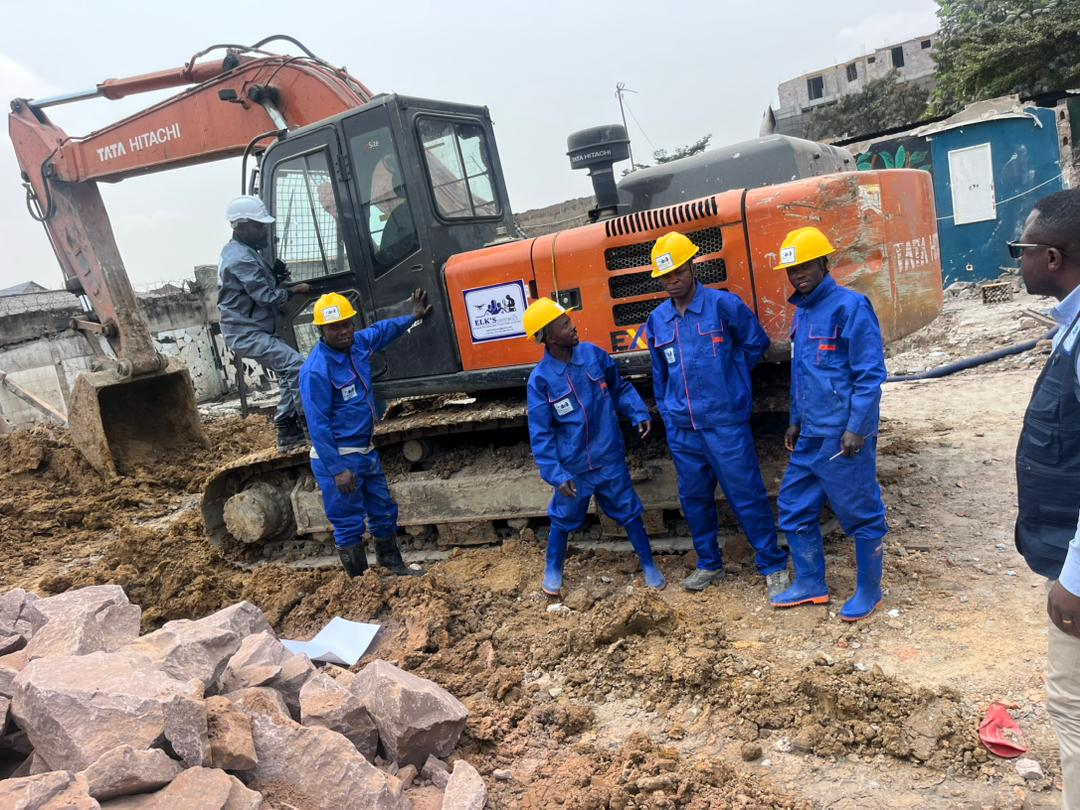
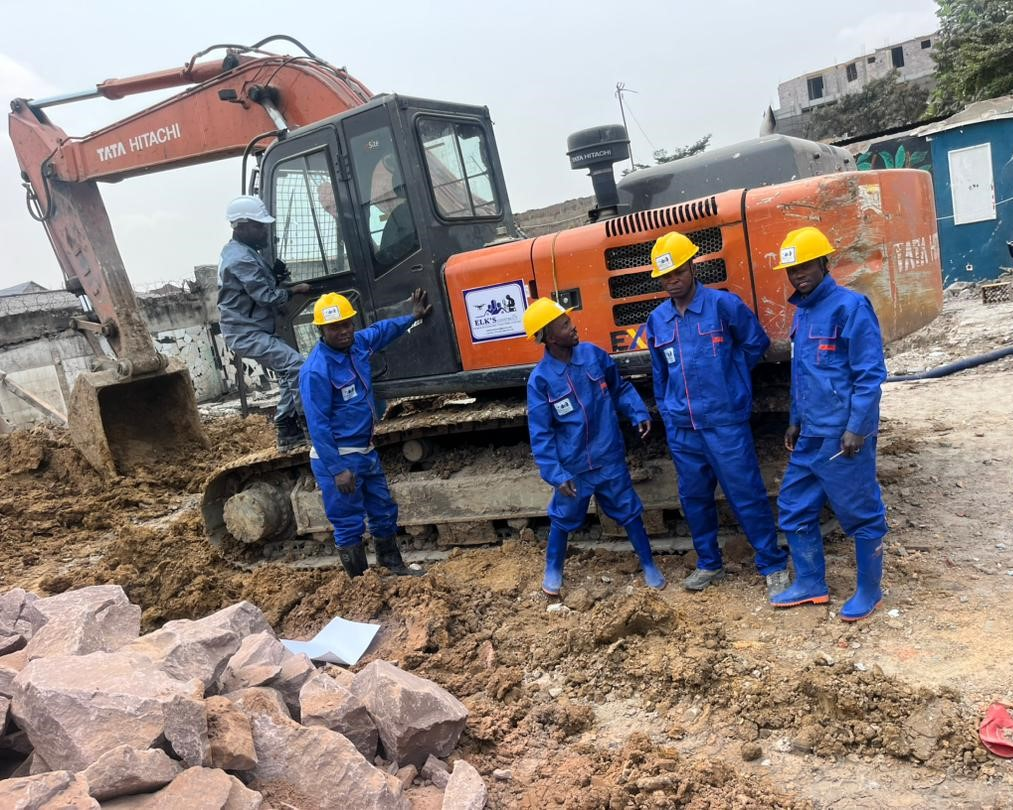
Fixing index

diff --git a/index.html b/index.html
@@ -31,6 +31,7 @@
         <link rel="stylesheet" href="style_publication.css">
         <link rel="stylesheet" href="dashboard.css">
         <link rel="stylesheet" href="style1.css">
+        <link rel="stylesheet" href="services.css">
         <link href="https://fonts.cdnfonts.com/css/reey" rel="stylesheet">
         <!-- Link Swiper's CSS -->
         <link rel="stylesheet" href="https://cdn.jsdelivr.net/npm/swiper@11/swiper-bundle.min.css" />
@@ -115,11 +116,11 @@
                <p>Avec une équipe pluridisciplinaire hautement qualifiée et passionnée, ELK’S CONSTRUCT SARL met la créativité, la rigueur et l’innovation au cœur de chaque projet, afin de bâtir un avenir solide et prospère.</p>
             </div>
             <div class="map">
-                <img src="assets/construction1.jpg" width="600" height="100%" style="border:0;" allowfullscreen="" loading="lazy" referrerpolicy="no-referrer-when-downgrade">
+                <img src="assets/elks.jpg" width="600" height="100%" style="border:0;" allowfullscreen="" loading="lazy" referrerpolicy="no-referrer-when-downgrade">
             </div>
         </section>
         <!-- Services -->
-        
+
 
         <section id="services">
 
@@ -155,27 +156,95 @@
                 l’aménagement. Il réduit les coûts et le temps par rapport aux méthodes 
                 traditionnelles, tout en garantissant une précision centimétrique. </p>
             </div>
+        </section>
+
+        <div class="services-container">
+
+    
+            <div class="service-card">
+               <div class="top-text">
+                    <h4><i class="fa-solid fa-car-side"></i> Le DJI M-400</h4>
+               </div>
+                <div class="service-pic">
+                    <img src="assets/dji 2.png" alt="">
+                </div>
+
+                <div class="service-description">
+                    <p class="short-text">
+                    Faire appel à ELK'S Construct SARL, c’est bénéficier de l’innovation DJI M-400 
+                    pour assurer qualité, sécurité et efficacité à chaque étape de votre chantier.
+                    </p>
+
+                    <div class="more-text">
+                        <p>
+                        Le DJI Matrice 400 est un drone multifonction capable de transformer les 
+                        pratiques professionnelles dans plusieurs secteurs. Il assure des relevés précis 
+                        en mines et topographie, optimise la gestion agricole, augmente la sécurité 
+                        grâce à la surveillance aérienne, facilite les inspections industrielles, et enrichit 
+                        les productions médiatiques par des images aériennes de qualité. Sa 
+                        performance et sa polyvalence en font un outil incontournable pour accroître 
+                        l’efficacité, la sécurité et l’innovation dans les activités professionnelles. <br>
+                        
+                        Grâce à sa stabilité avancée, son autonomie prolongée et sa capacité à 
+                        embarquer des capteurs multiples, il s'impose comme un outil incontournable 
+                        dans plusieurs secteurs industriels. <br>
+                        Le M400 facilite la surveillance des sites miniers en temps réel, permettant une 
+                        cartographie précise des zones d'extraction. Il permet de collecter des données 
+                        topographiques détaillées pour évaluer les volumes extraits, surveiller la 
+                        stabilité des terrains et identifier les risques potentiels (glissements, 
+                        effondrements). Sa capacité à voler dans des conditions difficiles réduit les 
+                        interventions humaines en zones dangereuses, augmentant ainsi la sécurité. 
+                        </p>
+                    </div>
+
+                    <button class="btn toggle-btn">Voir plus</button>
+                </div>
+            </div>
+
+            <div class="service-card">
+               <div class="top-text">
+                    <h4><i class="fa-solid fa-seedling"></i> Agriculture intelligente</h4>
+               </div>
+                <div class="service-pic">
+                    <img src="assets/agri.jpg" alt="">
+                </div>
+
+                <div class="service-description">
+                    <p class="short-text">
+                        En agriculture, le M400 analyse la santé des cultures grâce à ses capteurs multi-
+                        spectraux et thermiques. Il détecte le stress hydrique, les maladies, ou les 
+                        infestations, permettant des interventions ciblées
+                    </p>
+
+                    <div class="more-text">
+                        <p> Cette technologie optimise 
+                        l’utilisation d’eau, d’engrais et de pesticides, améliore les rendements agricoles 
+                        tout en préservant l’environnement ou en réduisant l’utilisation de produits 
+                        chimiques. <br><br>
+                        Le drone est un outil efficace pour la surveillance de vastes périmètres 
+                        industriels, bases logistiques, ou sites sensibles. En mode vol automatique, il 
+                        peut patrouiller efficacement, détecter des anomalies et transmettre images en 
+                        temps réel. Il renforce la vigilance, réduit les coûts de main-d’œuvre et intervient 
+                        rapidement en cas d’incident. </p>
+                    </div>
+
+                    <button class="btn toggle-btn">Voir plus</button>
+                </div>
+            </div>
+
+        </div>
+
+        <section id="services">
 
             <div class="service">
-                <img src="assets/drone-1142182_1280.jpg" alt="">
-                <p>En agriculture, le M400 analyse la santé des cultures grâce à ses capteurs multi-
-                spectraux et thermiques. Il détecte le stress hydrique, les maladies, ou les 
-                infestations, permettant des interventions ciblées. Cette technologie optimise 
-                l’utilisation d’eau, d’engrais et de pesticides, améliore les rendements agricoles 
-                tout en préservant l’environnement ou en réduisant l’utilisation de produits 
-                chimiques. <br><br>
-                Le drone est un outil efficace pour la surveillance de vastes périmètres 
-                industriels, bases logistiques, ou sites sensibles. En mode vol automatique, il 
-                peut patrouiller efficacement, détecter des anomalies et transmettre images en 
-                temps réel. Il renforce la vigilance, réduit les coûts de main-d’œuvre et intervient 
-                rapidement en cas d’incident. <br><br>
+                <img src="assets/dji.png" alt="">
+                <p>.
                 Le M400 inspecte infrastructures complexes : lignes électriques, pipelines, 
                 installations pétrolières, ponts. Avec ses capteurs haute résolution, l’accès à 
                 des zones difficiles ou dangereuses devient sécurisé et rapide. Les images 
                 permettent d’identifier les défaillances, la corrosion ou les fissures, facilitant la 
                 planification des réparations avant l’apparition de pannes majeures. <br>
 
-                <img src="assets/elkane.jpg" alt="">
                 Grâce à sa stabilité, ses capacités de charge allant jusqu’à 6kg, son autonomie 
                 de 55 minutes de vol et sa compatibilité avec des caméras professionnelles, le 
                 Matrice 400 révolutionne la prise de vue aérienne en cinéma et médias. Il 
@@ -185,26 +254,6 @@
             </div>
             <div class="service">
 
-
-                <p>« Faire appel à ELK'S Construct SARL, c’est bénéficier de l’innovation DJI M-400 
-                pour assurer qualité, sécurité et efficacité à chaque étape de votre chantier ».</p>
-                <p>Le DJI Matrice 400 est un drone multifonction capable de transformer les 
-                pratiques professionnelles dans plusieurs secteurs. Il assure des relevés précis 
-                en mines et topographie, optimise la gestion agricole, augmente la sécurité 
-                grâce à la surveillance aérienne, facilite les inspections industrielles, et enrichit 
-                les productions médiatiques par des images aériennes de qualité. Sa 
-                performance et sa polyvalence en font un outil incontournable pour accroître 
-                l’efficacité, la sécurité et l’innovation dans les activités professionnelles. <br>
-                
-                Grâce à sa stabilité avancée, son autonomie prolongée et sa capacité à 
-                embarquer des capteurs multiples, il s'impose comme un outil incontournable 
-                dans plusieurs secteurs industriels. <br>
-                Le M400 facilite la surveillance des sites miniers en temps réel, permettant une 
-                cartographie précise des zones d'extraction. Il permet de collecter des données 
-                topographiques détaillées pour évaluer les volumes extraits, surveiller la 
-                stabilité des terrains et identifier les risques potentiels (glissements, 
-                effondrements). Sa capacité à voler dans des conditions difficiles réduit les 
-                interventions humaines en zones dangereuses, augmentant ainsi la sécurité. <br>
                 <img src="assets/base station 2.png" alt="">
                 Le DJI Matrice 400 excelle dans la capture de données géospatiales. Equipé de 
                 caméras haute résolution et de LiDAR, il offre des relevés topographiques 
@@ -226,32 +275,73 @@
                 <figcaption>Initialisation de drones pour la topographie</figcaption>
                 
             </div>
+        </section>
+
+        <div class="services-container">
+
+    
+            <div class="service-card">
+               <div class="top-text">
+                    <h4><i class="fa-solid fa-car-side"></i> Construction & Génie Civil</h4>
+               </div>
+                <div class="service-pic">
+                    <img src="assets/route1.jpg" alt="">
+                </div>
+
+                <div class="service-description">
+                    <p class="short-text">
+                    Nous réalisons des travaux de construction variés allant des bâtiments résidentiels et commerciaux aux infrastructures publiques telles que routes, ponts et systèmes de drainage. Grâce à l’utilisation de matériaux de haute qualité et de techniques modernes, nous garantissons des ouvrages solides, sécurisés et adaptés au contexte local
+                    </p>
+
+                    <div class="more-text">
+                        <p>
+                        Notre expertise couvre également la réhabilitation et la modernisation des structures existantes afin de prolonger leur durée de vie et de répondre aux normes internationales. En intégrant les technologies de pointe telles que les drones pour la surveillance et l’inspection, nous assurons une gestion efficace des chantiers, une meilleure sécurité et une qualité optimale des travaux réalisés. Notre engagement envers l’excellence et la durabilité fait de nous un partenaire de confiance pour tous vos projets de construction et de génie civil. 
+                        </p>
+                    </div>
+
+                    <button class="btn toggle-btn">Voir plus</button>
+                </div>
+            </div>
+
+            <div class="service-card">
+               <div class="top-text">
+                    <h4><i class="fa-solid fa-seedling"></i> Ingénierie & Architecture</h4>
+               </div>
+                <div class="service-pic">
+                    <img src="assets/arch.jpeg" alt="">
+                </div>
+
+                <div class="service-description">
+                    <p class="short-text">
+                        Notre équipe d’ingénieurs et d’architectes propose des conceptions sur mesure qui allient innovation, fonctionnalité et esthétique
+                    </p>
+
+                    <div class="more-text">
+                        <p> De l’étude initiale à la réalisation, nous apportons des solutions créatives adaptées aux besoins des clients et aux contraintes du terrain. Nos projets architecturaux privilégient des designs modernes et durables, favorisant un équilibre entre confort, performance énergétique et intégration harmonieuse dans l’environnement. </p>
+                    </div>
+
+                    <button class="btn toggle-btn">Voir plus</button>
+                </div>
+            </div>
+
+        </div>
+
+
+        <section id="services">
             <div class="service">
-                <i class="fa-solid fa-cogs"></i>
-                <h4>Construction & Génie Civil</h4>
-                <p>Nous réalisons des travaux de construction variés allant des bâtiments résidentiels et commerciaux aux infrastructures publiques telles que routes, ponts et systèmes de drainage. Grâce à l’utilisation de matériaux de haute qualité et de techniques modernes, nous garantissons des ouvrages solides, sécurisés et adaptés au contexte local. Notre expertise couvre également la réhabilitation et la modernisation des structures existantes afin de prolonger leur durée de vie et de répondre aux normes internationales.</p>
-                <img src="assets/Construction & Civil Engineering.jpg" alt="Construction & Génie Civil">
-                <figcaption>Construction & Génie Civil, Credit Photo Technoweb</figcaption>
                 <video  playbackrate="1.5" width="100%" height="auto" autoplay loop muted playsinline>
                     <source src="assets/chantier_video_main.mp4" type="video/mp4">
                     Your browser does not support the video tag.
                 </video>
             </div>
 
-            <div class="service">
-                <i class="fa-solid fa-cogs"></i>
-                <h4>Ingénierie & Architecture</h4>
-                <p>Notre équipe d’ingénieurs et d’architectes propose des conceptions sur mesure qui allient innovation, fonctionnalité et esthétique. De l’étude initiale à la réalisation, nous apportons des solutions créatives adaptées aux besoins des clients et aux contraintes du terrain. Nos projets architecturaux privilégient des designs modernes et durables, favorisant un équilibre entre confort, performance énergétique et intégration harmonieuse dans l’environnement.</p>
-                <img src="assets/Engineering & Architecture.jpg" alt="Ingénierie & Architecture">
-                <figcaption>Ingénierie & Architecture, Credit Photo Technoweb</figcaption>
-            </div>
 
             <div class="service">
                 <i class="fa-solid fa-cogs"></i>
                 <h4>Études & Gestion de Projets</h4>
                 <p>Nous accompagnons nos clients tout au long du cycle de vie de leurs projets. Nos services incluent les études de faisabilité, la conception technique, la planification, la mobilisation des ressources et la supervision des travaux. Grâce à une gestion rigoureuse et transparente, nous assurons le respect des délais, du budget et des standards de qualité, tout en minimisant les risques. Notre approche garantit des projets livrés clés en main avec un suivi après-réalisation.</p>
                 <img src="assets/Project Studies & Management.jpg" alt="Études & Gestion de Projets">
-                <figcaption>Études & Gestion de Projets, Credit Photo Technoweb</figcaption>
+                <figcaption>Études & Gestion de Projets</figcaption>
             </div>
 
             
@@ -261,7 +351,7 @@
                 <h4>Inspection & Maintenance</h4>
                 <p>Nous assurons le contrôle qualité et l’inspection des ouvrages pour garantir leur conformité aux normes en vigueur. Nos équipes spécialisées interviennent également pour la maintenance préventive et corrective, ainsi que pour la rénovation des infrastructures existantes. Cette approche proactive permet d’anticiper les risques, de prolonger la durée de vie des installations et d’optimiser les coûts d’entretien sur le long terme.</p>
                 <img src="assets/Inspection & Maintenance.jpg" alt="Inspection & Maintenance">
-                <figcaption>Inspection & Maintenance, Credit Photo Technoweb</figcaption>
+                <figcaption>Inspection & Maintenance</figcaption>
             </div>
 
             <div class="service">
@@ -277,7 +367,7 @@
                 <h4>Cartographie Numérique & Technologies</h4>
                 <p>Nous utilisons des technologies de pointe telles que les drones, scanners LiDAR et systèmes de navigation GNSS pour collecter, analyser et représenter des données géospatiales avec une grande précision. Ces outils nous permettent de fournir des cartographies numériques avancées, utiles dans des domaines variés comme l’urbanisme, l’agriculture, l’environnement ou les travaux publics. Cette approche technologique garantit des décisions stratégiques mieux éclairées et une gestion optimisée des ressources.</p>
                 <img src="assets/Digital Mapping & Technologies.jpg" alt="Cartographie Numérique & Technologies">
-                <figcaption>Cartographie Numérique & Technologies, Credit Photo Technoweb</figcaption>
+                <figcaption>Cartographie Numérique & Technologies</figcaption>
             </div>
 
             <div class="service">
@@ -285,7 +375,7 @@
                 <h4>Développement de Matériaux</h4>
                 <p>Conscients des défis liés au climat et au contexte local, nous investissons dans la recherche et le développement de matériaux de construction innovants, durables et accessibles. L’objectif est de proposer des solutions adaptées aux réalités économiques de la région tout en garantissant performance, sécurité et respect de l’environnement. Ce savoir-faire contribue à réduire les coûts de construction et à promouvoir un développement durable.</p>
                 <img src="assets/Construction Materials Development.jpg" alt="Développement de Matériaux">
-                <figcaption>Développement de Matériaux, Credit Photo Technoweb</figcaption>
+                <figcaption>Développement de Matériaux</figcaption>
             </div>
         </section>
         <!-- Projects -->
@@ -313,7 +403,7 @@
                 
             </div>
             <div class="swiper-slide">
-                <img src="assets/route2.jpg" alt="Cartographie Numérique & Technologies">
+                <img src="assets/hindi guy.jpeg" alt="Cartographie Numérique & Technologies">
                 
             </div>
             <div class="swiper-slide">
@@ -558,6 +648,28 @@
                 // Observe chaque élément
                 lazyElements.forEach(el => observer.observe(el));
             </script>
+
+            <!-- ✅ Voir plus / Voir moins (fonctionnel) -->
+        <script>
+            document.querySelectorAll(".service-card").forEach(card => {
+                const btn = card.querySelector(".toggle-btn");
+                const more = card.querySelector(".more-text");
+                if (!btn || !more) return;
+
+                // état initial
+                more.style.display = "none";
+
+                btn.addEventListener("click", () => {
+                    const isOpen = more.style.display === "block";
+                    more.style.display = isOpen ? "none" : "block";
+                    btn.textContent = isOpen ? "Voir plus" : "Voir moins";
+
+                    if (isOpen) {
+                        card.scrollIntoView({ behavior: "smooth", block: "start" });
+                    }
+                });
+            });
+        </script>
 
     </body>
 

diff --git a/style_publication.css b/style_publication.css
@@ -86,7 +86,7 @@ figcaption{
   color: #FDC93B;
   margin: 15px 0;
 }
-.profil p,
+
 .profil p{
   text-align: justify;
 }
